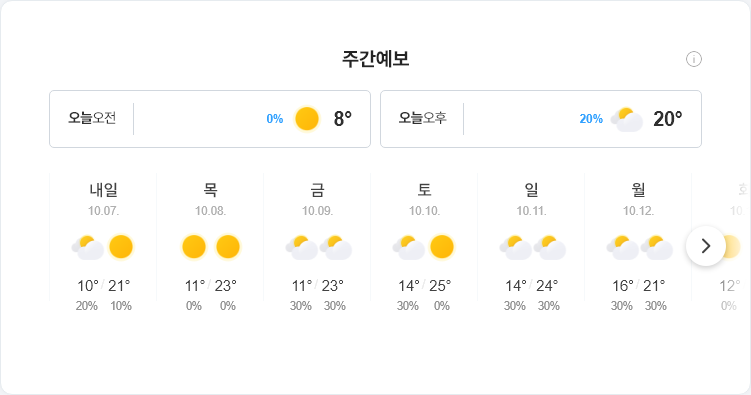
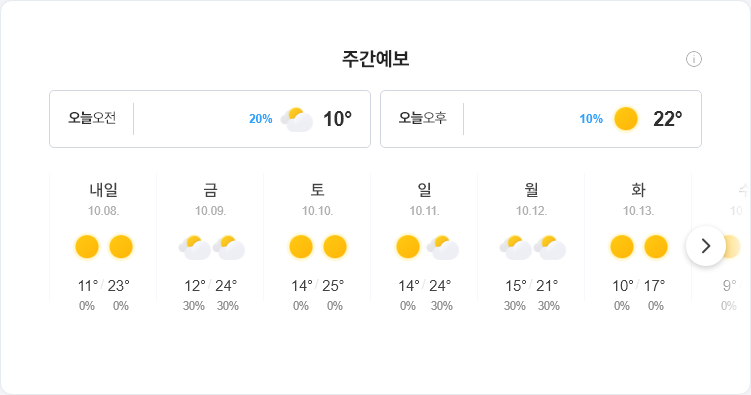
update result

diff --git a/README.md b/README.md
@@ -1,5 +1,5 @@
-##  2020-10-06 18:06:27   화요일 
-##### 날씨   -   어제보다 2 ° 높아요, 맑음
+##  2020-10-07 05:54:30   수요일 
+##### 날씨   -   어제보다 2 ° 높아요, 구름많음
 <center><img src="../img/naver_weather_week.png"></center>
 ----
 ----
@@ -13,17 +13,17 @@
 ##### 세계
 <table border="1" bordercolor="blue" align = "center" >
 <tr align = "right" > <td>Item</td><td>Point</td><td>Diff</td><td>Rate</td><td>Buy</td><td>Sell</td><td>...</td>  </tr>
-<tr align = "right" > <td>DOW</td><td>28,148.64</td><td>465.83</td><td><font size="3" color="red" >1.68%</font></td><td><font size="3" color="black">0</font></td><td><font size="3" color="black">0</font></td><td>0</td>  </tr>
-<tr align = "right" > <td>NASDAQ</td><td>11,332.49</td><td>257.47</td><td><font size="3" color="red" >2.32%</font></td><td><font size="3" color="black">0</font></td><td><font size="3" color="black">0</font></td><td>0</td>  </tr>
-<tr align = "right" > <td>S&P</td><td>3,408.63</td><td>60.19</td><td><font size="3" color="red" >1.8%</font></td><td><font size="3" color="black">0</font></td><td><font size="3" color="black">0</font></td><td>0</td>  </tr>
+<tr align = "right" > <td>DOW</td><td>27,772.76</td><td>-375.88</td><td><font size="3" color="blue" >-1.34%</font></td><td><font size="3" color="black">0</font></td><td><font size="3" color="black">0</font></td><td>0</td>  </tr>
+<tr align = "right" > <td>NASDAQ</td><td>11,154.6</td><td>-177.89</td><td><font size="3" color="blue" >-1.57%</font></td><td><font size="3" color="black">0</font></td><td><font size="3" color="black">0</font></td><td>0</td>  </tr>
+<tr align = "right" > <td>S&P</td><td>3,360.97</td><td>-47.66</td><td><font size="3" color="blue" >-1.4%</font></td><td><font size="3" color="black">0</font></td><td><font size="3" color="black">0</font></td><td>0</td>  </tr>
 <tr align = "right" > <td>SHANHAI</td><td>3,218.05</td><td>-6.31</td><td><font size="3" color="blue" >-0.2%</font></td><td><font size="3" color="black">0</font></td><td><font size="3" color="black">0</font></td><td>0</td>  </tr>
-<tr align = "right" > <td>INDIA</td><td>39,361.44</td><td>387.74</td><td><font size="3" color="red" >0.99%</font></td><td><font size="3" color="black">0</font></td><td><font size="3" color="black">0</font></td><td>0</td>  </tr>
+<tr align = "right" > <td>INDIA</td><td>39,574.57</td><td>600.87</td><td><font size="3" color="red" >1.54%</font></td><td><font size="3" color="black">0</font></td><td><font size="3" color="black">0</font></td><td>0</td>  </tr>
 </table>
 ----
 ##### 시장
 <table border="1" bordercolor="blue" align = "center" >
 <tr align = "right" > <td>Item</td><td>Price</td><td>Diff</td><td>Rate</td><td>Buy</td><td>Sell</td><td>...</td>  </tr>
-<tr align = "right" > <td>USD</td><td>1,162.0</td><td>1.5</td><td><font size="3" color="red">0.13%</font></td><td><font size="3" color="black">1,150</font></td><td><font size="3" color="black">0</font></td><td>0</td>  </tr>
+<tr align = "right" > <td>USD</td><td>1,161.0</td><td>1.0</td><td><font size="3" color="red">0.09%</font></td><td><font size="3" color="black">1,150</font></td><td><font size="3" color="black">0</font></td><td>0</td>  </tr>
 <tr align = "right" > <td>WTI</td><td>39.22</td><td>2.17</td><td><font size="3" color="red">5.85%</font></td><td><font size="3" color="black">29.0</font></td><td><font size="3" color="black">0</font></td><td>0</td>  </tr>
 <tr align = "right" > <td>GOLD</td><td>1,912.0</td><td>12.3</td><td><font size="3" color="red">0.64%</font></td><td><font size="3" color="black">0</font></td><td><font size="3" color="black">0</font></td><td>0</td>  </tr>
 </table>
